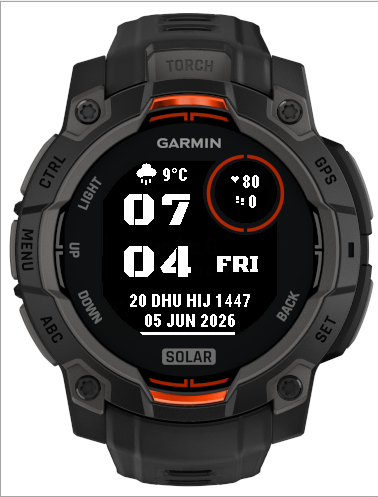
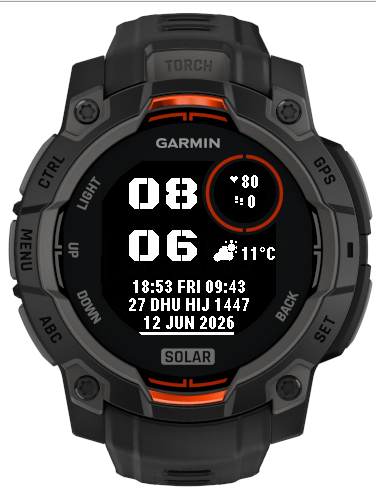
squeeze in sunrise and sunset by shifting objects

diff --git a/README.md b/README.md
@@ -1,6 +1,6 @@
 # My Watch Face for Garmin Instinct 3 Solar 45mm
 
-A Connect IQ watch face for the **Garmin Instinct 3 Solar 45mm** with stacked Source Code Pro Bold time digits, dual-calendar dates, weather, and an activity porthole.
+A Connect IQ watch face for the **Garmin Instinct 3 Solar 45mm** with stacked Black Ops One time digits, sunrise/sunset row, dual-calendar dates, weather, and an activity porthole.
 
 > **Note:** Source is intentionally monolithic in a single `MyWatchFace.mc` file for easy sharing and review.
 
@@ -8,11 +8,11 @@ A Connect IQ watch face for the **Garmin Instinct 3 Solar 45mm** with stacked So
 
 ```
 ┌─────────────────────────────────────┐
-│ [weather] 12°C          ╭─ ♥ 80 ─╮ │
-│                         │ 👣 1234 │ │
-│   HH              SUN               │
-│   MM                                │
+│                         ╭─ ♥ 80 ─╮ │
+│   HH                    │ 👣 1234 │ │
+│   MM                    [☀] 12°C  │
 │                                     │
+│        06:00 FRI 18:00              │
 │        15 DHU HIJ 1447              │
 │        31 MAY 2026                  │
 │▓▓▓▓▓▓▓▓▓▓▓▓░░░░░░░░░░░░░░░░░░░░░░░░░│ battery
@@ -24,20 +24,26 @@ A Connect IQ watch face for the **Garmin Instinct 3 Solar 45mm** with stacked So
 ### Time
 
 - **Stacked 24 h** — `HH` over `MM` (no colon)
-- **Source Code Pro Bold bitmap digits** — 10 per-digit 28×40 sprites (binarized for MIP)
-- Positioned upper-left toward center; minutes row aligned with weekday label
+- **Black Ops One bitmap digits** — 10 per-digit 32×42 sprites (binarized for MIP)
+- Positioned upper-left toward center
+
+### Sun times & weekday
+
+- **Sunrise / sunset / DOW row** — `06:00 FRI 18:00` in `FONT_XTINY`, centered just above the Hijri date
+- Sunrise and sunset from `Weather.getSunrise()` / `Weather.getSunset()` (requires phone weather sync and location)
+- Falls back to `--:-- FRI --:--` when sun times are unavailable
 
 ### Dates
 
 - **Hijri** — `DD MONTHNAME YYYY` (e.g. `15 DHU HIJ 1447`)
 - **Gregorian** — `DD MMM YYYY` (e.g. `31 MAY 2026`)
-- **Weekday** — `SUN` / `MON` / `THU` / … as Black Ops One bitmaps (24 px font, auto-sized cell), under the porthole, aligned with the minutes row
 - **Hijri offset** — configurable ±2 days (Settings → Hijri date shift)
 - **Color theme** — dark (default) or light background with matching text and bitmap ink
 
-### Weather (upper-left)
+### Weather (under porthole)
 
 - 24×24 **1-bit PNG sprites** (7 categories: clear, partly cloudy, cloudy, wind, rain, storm, snow) + temperature in °C
+- Centered horizontally under the activity porthole, vertically between the porthole bottom and the sun/DOW row
 - Hand-drawn pixel icons tuned for MIP readability; Garmin condition codes map to 7 buckets (fog → cloudy, wintry mix → snow, etc.)
 - Refreshed at most every **15 minutes**
 
@@ -59,6 +65,7 @@ All UI updates run on a **single 60-second timer** — no sub-minute partial red
 |-----------|--------|
 | Minute tick | `Timer` fires every 60 s; refreshes steps, HR, dates, weather cache, then full redraw |
 | Cached weather | `Weather.getCurrentConditions()` at most every 15 min |
+| Cached sun times | `Weather.getSunrise()` / `getSunset()` on the same tick when weather data is available |
 | Cached battery | `System.getSystemStats()` at most every 5 min |
 | No background service | No `Background` permission — no wake-ups when face is inactive |
 | No partial updates | Full 176×176 redraw once per minute only |
@@ -69,13 +76,10 @@ All UI updates run on a **single 60-second timer** — no sub-minute partial red
 |--------|---------|
 | `Theme` | `colorMode` property, palette colors, dark/light resource selection |
 | `ClockDigits` | Black Ops One per-digit bitmap renderer for stacked time |
-| `WeekdaySprites` | Black Ops One 3-letter weekday bitmaps (Garmin DOW 1–7) |
-| `HijriHelpers` | Hijri calendar + date label helpers |
-| `TimeHelpers` | Hour/minute formatting for stacked time |
+| `HijriHelpers` | Hijri calendar, weekday abbreviation, and date label helpers |
+| `TimeHelpers` | Hour/minute formatting for stacked time and sun times |
 
-Clock digit sprites (`digit_0.png` … `digit_9.png`, 36×48, plus `*_light.png` for light theme) regenerate via [`scripts/generate-clock-digits.ps1`](scripts/generate-clock-digits.ps1) using [Black Ops One](https://fonts.google.com/specimen/Black+Ops+One) (OFL).
-
-Weekday sprites (`weekday_sun.png` … `weekday_sat.png`, plus `*_light.png`) regenerate via [`scripts/generate-weekday-sprites.ps1`](scripts/generate-weekday-sprites.ps1) (same font, 24 px, 3-letter labels; cell width fits `WED`/`MON`).
+Clock digit sprites (`digit_0.png` … `digit_9.png`, 32×42, plus `*_light.png` for light theme) regenerate via [`scripts/generate-clock-digits.ps1`](scripts/generate-clock-digits.ps1) using [Black Ops One](https://fonts.google.com/specimen/Black+Ops+One) (OFL).
 
 Weather icons are 24×24 hand-drawn PNGs in [`resources/images/`](resources/images/) (regenerate via [`scripts/generate-weather-icons.ps1`](scripts/generate-weather-icons.ps1); each icon has a `_light` variant).
 
@@ -95,7 +99,7 @@ Default theme is **dark** (unchanged look for existing installs).
 | Permission | Used for |
 |------------|----------|
 | `UserProfile` | User profile data |
-| `positioning` | Weather location |
+| `positioning` | Weather location and sunrise/sunset |
 | `SensorHistory` | Heart rate history fallback |
 
 ## Building
